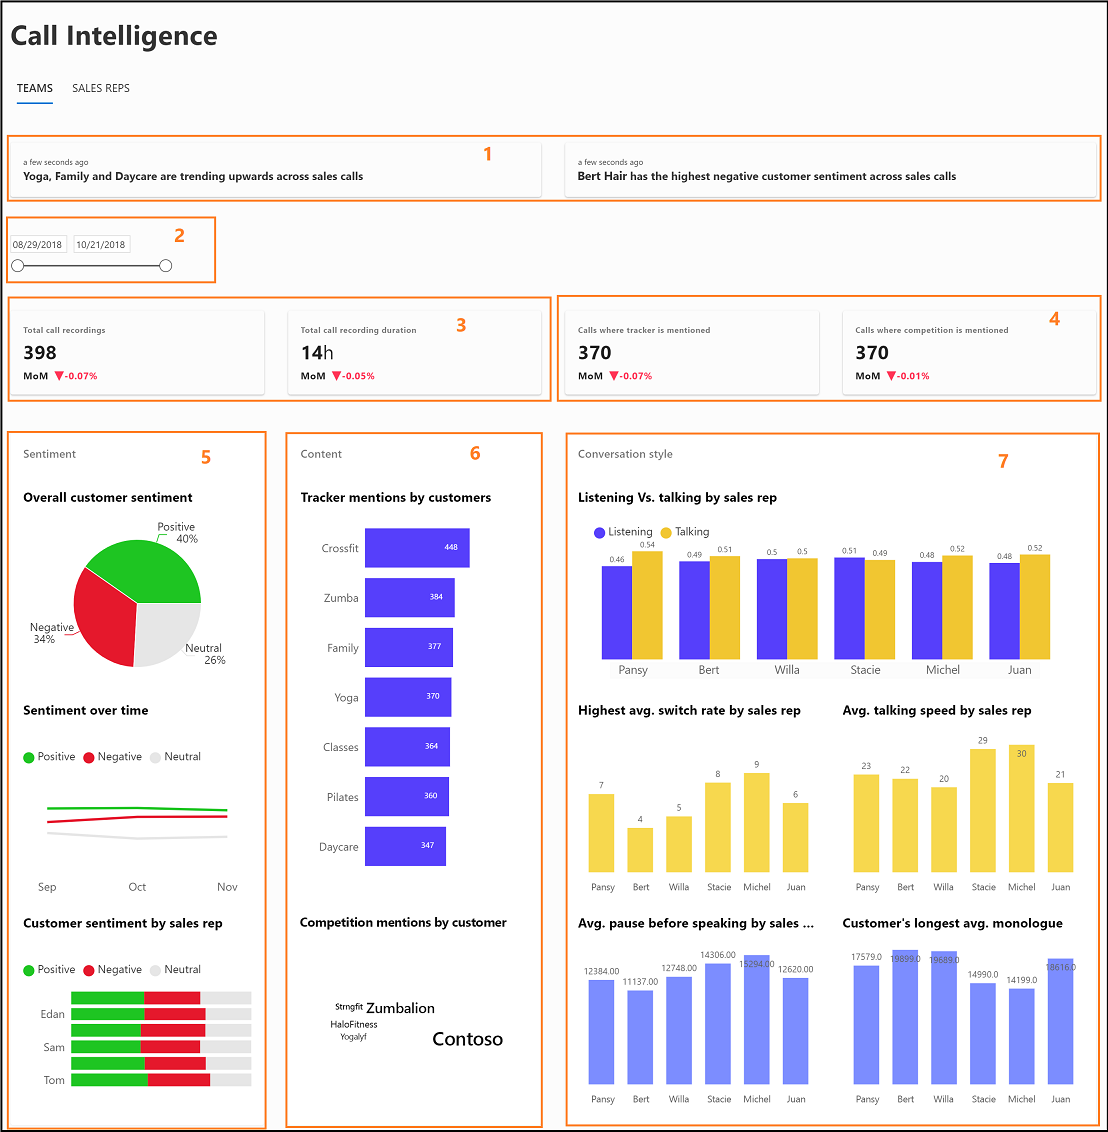
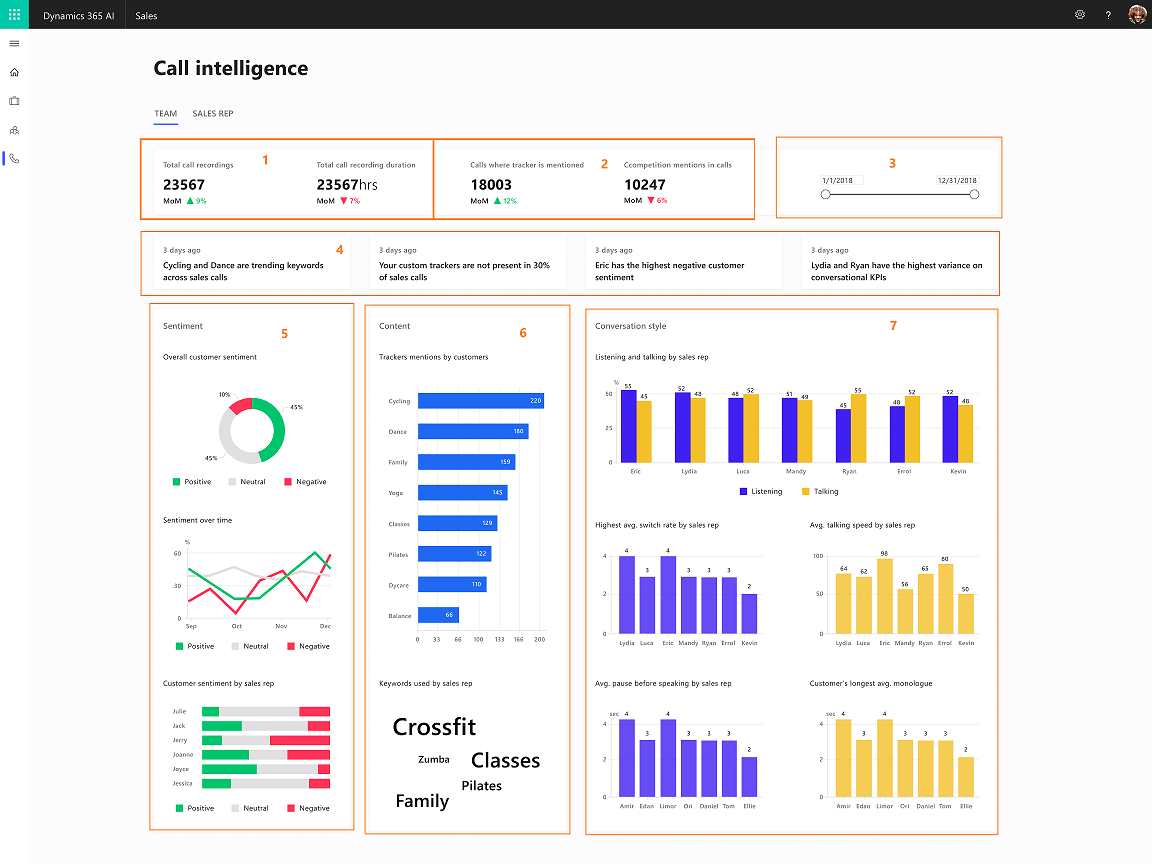
updated call intelligence

Changed region(s): [[0.0, 0.0, 1.0, 1.0]]

diff --git a/ai-docs/sales/call-intelligence.md b/ai-docs/sales/call-intelligence.md
@@ -57,10 +57,10 @@ When you open call intelligence, the application displays the **Teams** tab that
 
 |KPI/Insights|Description|
 |------------|-----------|
-|**1. Insights**|Displays what’s happening in your team and the latest trends such as sales reps who are underperforming, sales reps who are scoring high in customer satisfaction, and keywords that are trending.|
-|**2. Date filter**|Provides a timeline for which you want to view the data of your team.|
-|**3. Total calls recorded and Total call recording duration**|Specifies the total calls that were recorded during the specified time and the total duration of the recorded calls.|
-|**4. Calls where tracker is mentioned and Calls where competitor is mentioned**|Specifies the number of calls in which the defined keywords are mentioned and number of calls where the defined competitors are mentioned.|
+|**1. Total calls recorded and Total call recording duration**|Specifies the total calls that were recorded during the specified time and the total duration of the recorded calls.|
+|**2. Calls where tracker is mentioned and Calls where competitor is mentioned**|Specifies the number of calls in which the defined keywords are mentioned and number of calls where the defined competitors are mentioned.|
+|**3. Date filter**|Provides a timeline for which you want to view the data of your team.|
+|**4. Insights**|Displays what’s happening in your team and the latest trends such as sales reps who are underperforming, sales reps who are scoring high in customer satisfaction, and keywords that are trending.|
 |**5. Sentiment**|• **Overall customer sentiment:** Specifies the customer sentiment in percentage—positive, negative, or neutral.<br>•	**Sentiment over time:** Displays how the three customer sentiments (positive, negative, and neutral) are spanning across the specified timeframe.<br> •	**Customer sentiment generated by sales rep:** Specifies how each of your sales reps contributed toward generating the overall customer sentiment. Also, shows which sales rep has the highest or lowest contributions.|
 |**6. Content**|• **Trackers mentioned by customers:** Displays the defined keywords that customers use most during conversations with sales reps. <br>• **Competition mentioned by customers:** Displays the defined competitor names that customers use most during conversations with sales reps.|
 |**7. Conversation style**|• **Listening and talking ratio:** Specifies the average listen and talk ratio of sales reps in conversations with customers.<br> •	**Highest average switch rate:** Displays the average switches between a sales rep and customer in a conversation; this is a sign of engagement during conversations.<br>•	**Average talking speed:** Displays the average number of words used per minute by sales reps.<br>•	**Average pause before speaking:** Displays how many milliseconds the sales rep paused before responding to customer queries; this is a signal of patience by the sales rep.<br>•	**Average longest monologue by customer:** Displays the length of speech without a break by the customer with a sales rep in seconds; this is a signal that sales reps are asking good questions and showing understanding of customer needs.|
